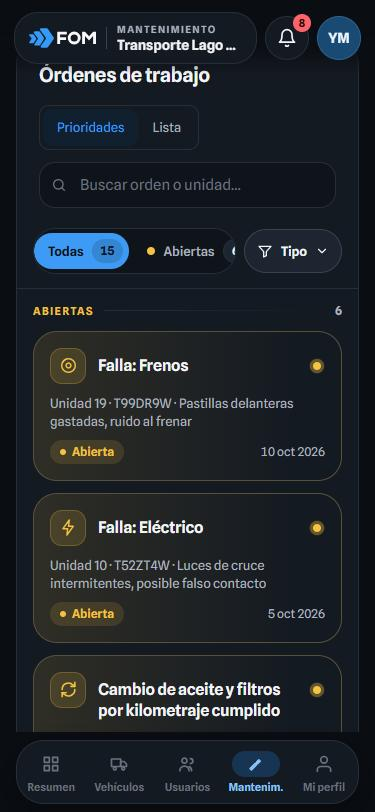
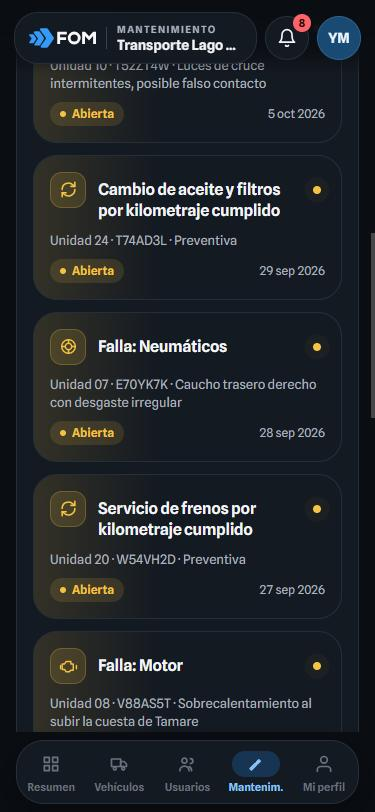
Mantenimiento: borde normal y degradado solo del lado izquierdo (web y app)

diff --git a/src/panel/modulos/mantenimiento.css b/src/panel/modulos/mantenimiento.css
@@ -170,7 +170,7 @@
 .mnt-grupo-cab.ambar>span{color:var(--e-aviso)}
 .mnt-grupo-cab>i{flex:1;height:1px;background:linear-gradient(90deg,var(--e-borde),transparent)}
 .mnt-grupo-cab>b{font-size:12px;letter-spacing:0;font-variant-numeric:tabular-nums;color:var(--e-texto-2)}
-.mnt-tarjeta{--tono:var(--e-texto-2);min-width:0;overflow:hidden;border-radius:24px;border:1px solid color-mix(in srgb,var(--tono) 24%,var(--e-borde));background:linear-gradient(90deg,color-mix(in srgb,var(--tono) 12%,transparent),transparent 85%),var(--e-sup)}
+.mnt-tarjeta{--tono:var(--e-texto-2);min-width:0;overflow:hidden;border-radius:24px;border:1px solid var(--e-borde);background:linear-gradient(90deg,color-mix(in srgb,var(--tono) 14%,transparent),transparent 40%),var(--e-sup)}
 .mnt-tarjeta.ambar{--tono:var(--e-aviso)}.mnt-tarjeta.azul{--tono:var(--e-info)}.mnt-tarjeta.verde{--tono:var(--e-exito)}.mnt-tarjeta.rojo{--tono:var(--e-peligro)}
 .mnt-tarjeta.apagada>.mnt-tarjeta-toque{opacity:.75}
 .mnt-root .mnt-tarjeta-toque{display:grid;gap:10px;width:100%;padding:16px;border:0;border-radius:24px;background:none;color:inherit;font:inherit;text-align:left}
